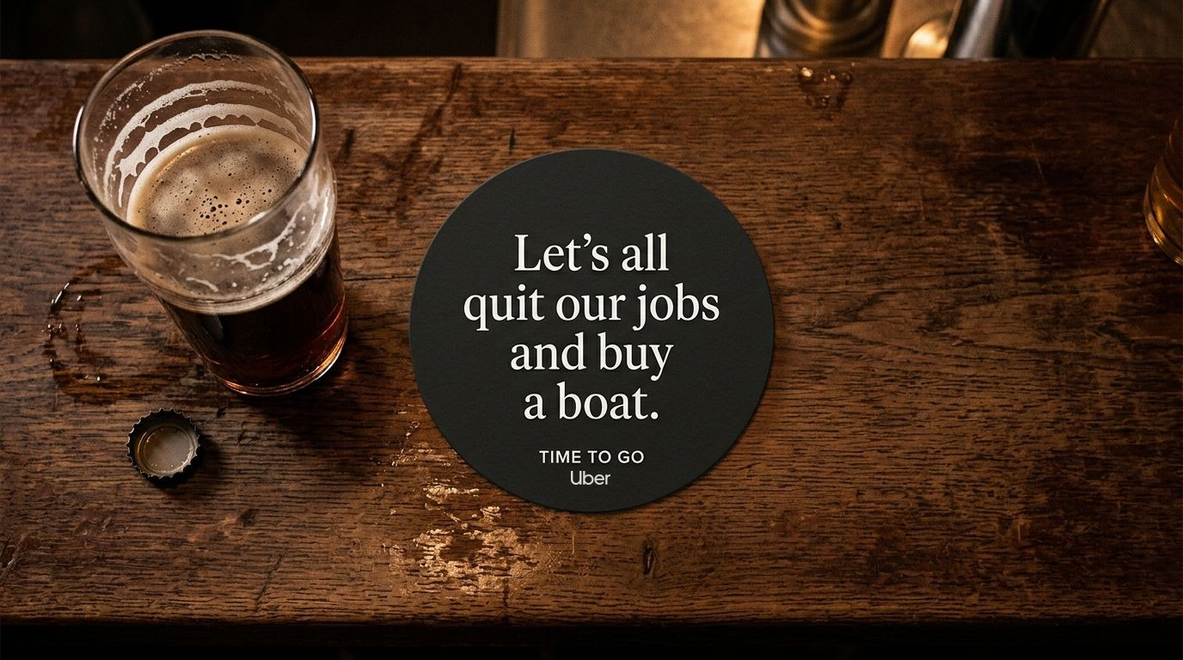
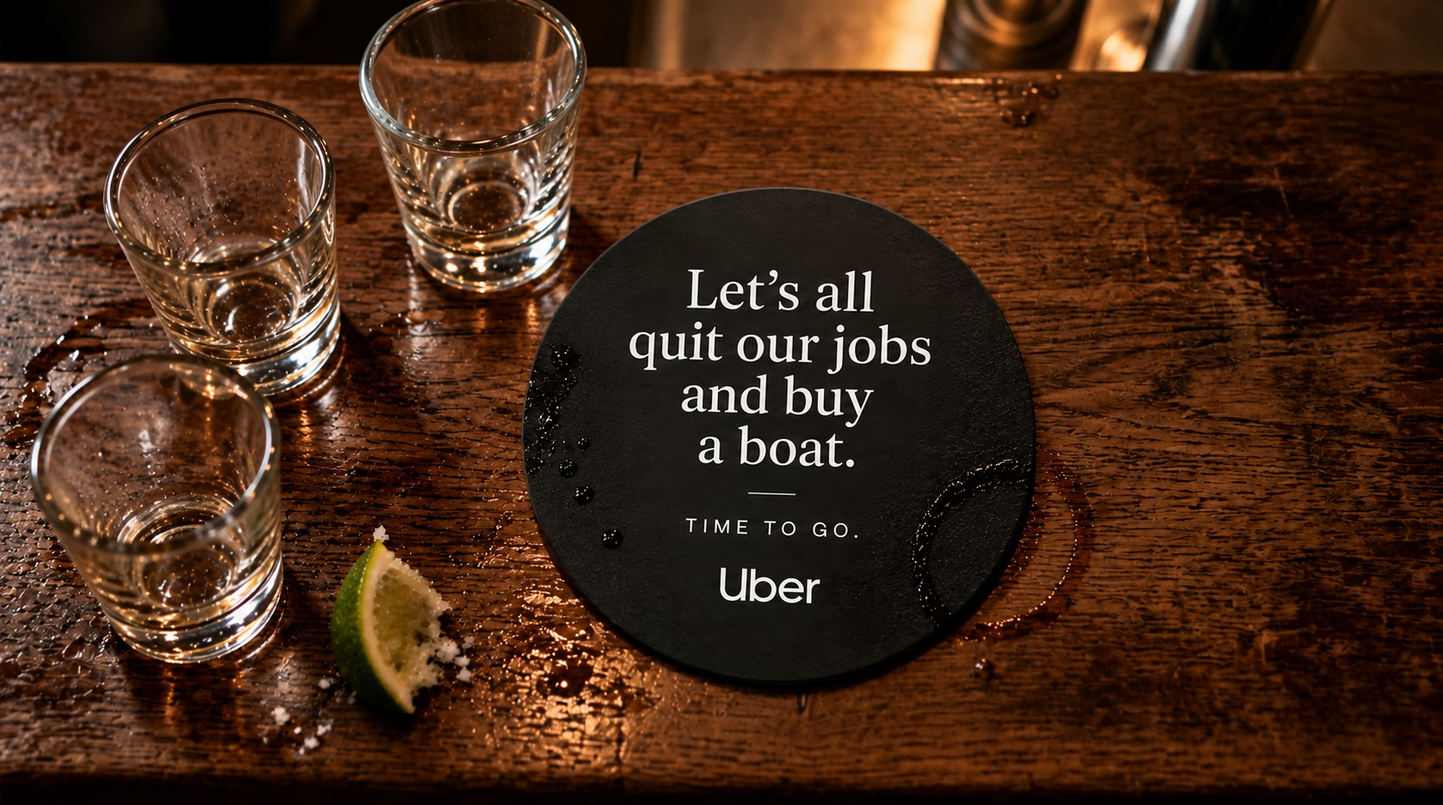
Uber: new intro, coasters (ex, boat, DJ, sommelier), Last Call Department payphone demo and Morning After built in (switch on with their assets), bus shelter and billboard variant slots
Claude-Session: https://claude.ai/code/session_01TW6HnmcSsFnBnCmy5NRgLu

diff --git a/uber.html b/uber.html
@@ -11,7 +11,7 @@
 <link rel="preconnect" href="https://fonts.googleapis.com">
 <link rel="preconnect" href="https://fonts.gstatic.com" crossorigin>
 <link rel="stylesheet" href="https://fonts.googleapis.com/css2?family=Marcellus&family=Hanken+Grotesk:wght@400;500;600&display=swap">
-<link rel="stylesheet" href="css/style.css?v=1111277e">
+<link rel="stylesheet" href="css/style.css?v=d52062b3">
 </head>
 <body>
 <a class="skip" href="#main">Skip to content</a>
@@ -31,18 +31,18 @@
 <a class="text-link back" href="index.html#work">← All work</a>
 <p class="cs-meta byline"><span class="full"><b>Spec</b><span class="dot">•</span>Integrated campaign<span class="dot">•</span>Concept · Creative Direction · Art Direction</span><span class="short"><b>Spec</b><span class="dot">•</span>Integrated<span class="dot">•</span>Concept, CD, AD</span></p>
 <h1 class="display">UBER</h1>
-<p class="lede">When it&#39;s time to go.</p><p class="body-copy">A spec campaign for Uber that meets people at the exact moment a night turns. It uses the things everyone says at the end of a night, printed right where the decision happens: on the coaster, on the tab, on the way out the door. Visuals AI-assisted.</p>
+<p class="lede">When it&#39;s time to go.</p><p class="body-copy">A spec campaign built around the things people say when a good night has gone on a little too long. From bar receipts and coasters to an AI-powered last-call hotline, Uber helps turn the moment into a way home. <span class="fine">Spec work. Visuals AI-assisted.</span></p>
 </div></header>
-<div class="wrap cs-hero"><img src="images/ub-receipt.jpg" alt="An itemized bar receipt from the Tipsy Oak: two Old Fashioneds, fries, four OK one more, I&#39;m not even tired, we should start a business, I love you guys. Total: time to go. Close your tab. Open your app."></div>
+<div class="wrap cs-hero"><img src="images/ub-receipt.jpg" alt="An itemized bar receipt from the Tipsy Oak: two Old Fashioneds, fries, four OK one more, I&#39;m not even tired, we should start a business, I love you guys. Total: time to go. Close your tab. Open your app. Signed off with the Uber logo."></div>
 <section class="cs-section"><div class="wrap">
 <div class="cs-section-head"><span class="num">01</span><h2>The insight</h2></div>
 <div class="insight"><p class="eyebrow">The insight</p><p class="ins-line">Everyone knows the night is over before they admit it. You can hear it.</p><p class="eyebrow">The idea</p><p class="ins-tag">The things you say before it&#39;s time to go.</p></div>
 </div></section><section class="cs-section"><div class="wrap">
 <div class="cs-section-head"><span class="num">02</span><h2>On-premise: the coasters</h2><p class="body-copy">A coaster series built from the lines everyone has heard at last call. Each one ends the same way.</p></div>
-<figure><img src="images/ub-coaster-ex.jpg" alt="Coaster: Should I text my ex? Just to say hi. Time to go." loading="lazy"><figcaption>&quot;Should I text my ex? Just to say hi.&quot;</figcaption></figure><figure><img src="images/ub-coaster-boat.jpg" alt="Coaster: Let&#39;s all quit our jobs and buy a boat. Time to go." loading="lazy"><figcaption>&quot;Let&#39;s all quit our jobs and buy a boat.&quot;</figcaption></figure><figure><img src="images/ub-coaster-tattoos.jpg" alt="Coaster: We should all get matching tattoos. Time to go." loading="lazy"><figcaption>&quot;We should all get matching tattoos.&quot;</figcaption></figure><figure><img src="images/ub-coaster-food.jpg" alt="Coaster: Let&#39;s order bar to the food. Time to go." loading="lazy"><figcaption>&quot;Let&#39;s order bar to the food.&quot;</figcaption></figure>
+<figure><img src="images/ub-coaster-ex.jpg" alt="Coaster: Should I text my ex? Just to say hi. Time to go. Uber." loading="lazy"><figcaption>The ex.</figcaption></figure><figure><img src="images/ub-coaster-boat.jpg" alt="Coaster: Let&#39;s all quit our jobs and buy a boat. Time to go. Uber." loading="lazy"><figcaption>The boat.</figcaption></figure><figure><img src="images/ub-coaster-dj.jpg" alt="Coaster: I could definitely be a DJ. Time to go. Uber." loading="lazy"><figcaption>The DJ.</figcaption></figure><figure><img src="images/ub-coaster-sommelier.jpg" alt="Coaster: I&#39;m basically a sommelier. Time to go. Uber." loading="lazy"><figcaption>The sommelier.</figcaption></figure>
 </div></section><section class="cs-section"><div class="wrap">
-<div class="cs-section-head"><span class="num">03</span><h2>The tab</h2><p class="body-copy">The bill is the natural cue to leave, so that&#39;s where the idea lands hardest: an itemized receipt of everything you said (above), then the check presenter and the ride already on its way.</p></div>
-<figure><img src="images/ub-hero.jpg" alt="End of the night at a bar: a check presenter and a phone showing a ride on its way, as the bartender wipes down and two friends put on their coats" loading="lazy"><figcaption>Close your tab. Open your app.</figcaption></figure><figure><img src="images/ub-presenter.jpg" alt="A check presenter with a card reading Tip your bartender. Then tap your app." loading="lazy"><figcaption>Tip your bartender. Then tap your app.</figcaption></figure>
+<div class="cs-section-head"><span class="num">03</span><h2>The tab</h2><p class="body-copy">The bill is the natural cue to leave: the check presenter, and the ride already on its way.</p></div>
+<div class="pair secondary"><figure><img src="images/ub-hero.jpg" alt="End of the night at a bar: a check presenter and a phone showing a ride on its way, as the bartender wipes down and two friends put on their coats" loading="lazy"><figcaption>Close your tab. Open your app.</figcaption></figure><figure><img src="images/ub-presenter.jpg" alt="A check presenter with a card reading Tip your bartender. Then tap your app." loading="lazy"><figcaption>Tip your bartender. Then tap your app.</figcaption></figure></div>
 </div></section><section class="cs-section"><div class="wrap">
 <div class="cs-section-head"><span class="num">04</span><h2>Out-of-home: on the way out</h2><p class="body-copy">The last word, placed between the bar door and the curb.</p></div>
 <div class="feed tall9"><figure><img src="images/ub-sign.jpg" alt="Sidewalk sign: Last call is a suggestion. Closing time isn&#39;t." loading="lazy"><figcaption>Sidewalk sign.</figcaption></figure><figure><img src="images/ub-shelter.jpg" alt="Bus shelter: Your tab closed at 1:52. Your ride&#39;s here at 1:55." loading="lazy"><figcaption>Bus shelter.</figcaption></figure><figure><img src="images/ub-billboard.jpg" alt="Digital billboard over a nightlife street: Close your tab. Open your app." loading="lazy"><figcaption>Digital billboard.</figcaption></figure></div>
@@ -63,5 +63,6 @@
 </footer>
 <script src="js/gallery.js?v=9e4ce41c"></script>
 <script src="js/livephone.js?v=cb21c16c" defer></script>
+<script src="js/lastcall.js?v=6366ece5" defer></script>
 </body>
 </html>

diff --git a/js/lastcall.js b/js/lastcall.js
@@ -1,0 +1,58 @@
+/* The Last Call Department: pick up the payphone, play a sample call.
+   One sample at a time, never autoplays, keyboard accessible.
+   A live AI operator can be added later through data-live-endpoint (a
+   server that issues short-lived session tokens); nothing live is shown
+   until that endpoint exists and is wired up. */
+(function () {
+  document.querySelectorAll('.lastcall').forEach(function (box) {
+    var pickup = box.querySelector('.lc-pickup');
+    var group = box.querySelector('.lc-samples');
+    var status = box.querySelector('.lc-status');
+    var buttons = Array.prototype.slice.call(box.querySelectorAll('.lc-sample'));
+    var audio = new Audio();
+    audio.preload = 'none';
+    var current = null;
+
+    function setState(btn, playing) {
+      btn.setAttribute('aria-pressed', playing ? 'true' : 'false');
+      btn.classList.toggle('playing', playing);
+    }
+    function stop() {
+      audio.pause();
+      if (current) setState(current, false);
+      current = null;
+    }
+    function play(btn) {
+      if (current === btn && !audio.paused) { audio.pause(); setState(btn, false); status.textContent = 'Paused.'; return; }
+      if (current === btn && audio.paused && audio.currentTime > 0) { audio.play(); setState(btn, true); status.textContent = 'Playing: ' + btn.textContent + '.'; return; }
+      stop();
+      current = btn;
+      audio.src = btn.getAttribute('data-src');
+      setState(btn, true);
+      status.textContent = 'Connecting…';
+      audio.play().then(function () { status.textContent = 'Playing: ' + btn.textContent + '.'; })
+        .catch(function () { setState(btn, false); status.textContent = 'This sample could not be played.'; });
+    }
+    audio.addEventListener('ended', function () { if (current) setState(current, false); current = null; status.textContent = 'Call ended. Pick another case.'; });
+    audio.addEventListener('error', function () {
+      if (!current) return;
+      setState(current, false); current.disabled = true; current = null;
+      status.textContent = 'This sample isn’t available right now.';
+    });
+
+    pickup.addEventListener('click', function () {
+      var open = pickup.getAttribute('aria-expanded') === 'true';
+      if (open) {
+        stop(); group.hidden = true; pickup.setAttribute('aria-expanded', 'false');
+        pickup.textContent = 'Pick up the phone'; box.classList.remove('off-hook'); status.textContent = 'Hung up.';
+      } else {
+        group.hidden = false; pickup.setAttribute('aria-expanded', 'true');
+        pickup.textContent = 'Hang up'; box.classList.add('off-hook');
+        status.textContent = 'Last Call Department. Choose a case to hear the operator.';
+        if (buttons[0]) buttons[0].focus();
+      }
+    });
+    buttons.forEach(function (b) { b.addEventListener('click', function () { play(b); }); });
+    box.addEventListener('keydown', function (e) { if (e.key === 'Escape' && current) { stop(); status.textContent = 'Stopped.'; } });
+  });
+})();

diff --git a/css/style.css b/css/style.css
@@ -314,3 +314,25 @@ figure .zoom:focus-visible{outline:2px solid var(--ink);outline-offset:4px}
 .byline .dot{margin:0 .7em;color:#aaa}
 .byline .short{display:none}
 @media (max-width:760px){.byline .full{display:none}.byline .short{display:inline}.cs-meta.byline{letter-spacing:.08em;font-size:11px}.byline .dot{margin:0 .45em}}
+
+/* Uber: Last Call Department payphone demo */
+.fine{display:block;margin-top:14px;font-size:13px;letter-spacing:.06em;color:#6b6b6b}
+.proposed{display:inline-block;margin-right:10px;padding:2px 8px;border:1px solid currentColor;font-size:11px;letter-spacing:.14em;text-transform:uppercase;vertical-align:2px}
+.pair.secondary{max-width:min(var(--media-w),760px)}
+.lastcall{display:grid;grid-template-columns:minmax(0,1fr) minmax(0,1fr);gap:32px;align-items:center;max-width:var(--media-w);margin:40px auto 0;padding:28px;background:#111;color:#e9e6df}
+.lc-device img{width:100%;height:auto;display:block;max-height:420px;object-fit:cover}
+.lc-label{font-size:11px;letter-spacing:.16em;text-transform:uppercase;color:#9a968c;margin-bottom:16px}
+.lc-pickup{display:block;width:100%;min-height:56px;border:1px solid #e9e6df;background:#e9e6df;color:#111;font:600 14px/1 inherit;letter-spacing:.16em;text-transform:uppercase;cursor:pointer}
+.lastcall.off-hook .lc-pickup{background:transparent;color:#e9e6df}
+.lc-samples{display:grid;gap:10px;margin-top:16px}
+.lc-sample{display:flex;align-items:center;gap:12px;min-height:48px;padding:0 16px;border:1px solid #4a4741;background:transparent;color:#e9e6df;font:500 15px/1.2 inherit;text-align:left;cursor:pointer}
+.lc-sample:hover,.lc-sample:focus-visible,.lc-pickup:focus-visible{outline:2px solid #3fbf74;outline-offset:2px}
+.lc-sample:disabled{opacity:.4;cursor:not-allowed}
+.lc-ic{width:0;height:0;border-left:10px solid currentColor;border-top:6px solid transparent;border-bottom:6px solid transparent}
+.lc-sample.playing{border-color:#3fbf74;color:#fff}
+.lc-sample.playing .lc-ic{width:10px;height:12px;border:0;border-left:3px solid currentColor;border-right:3px solid currentColor}
+.lc-status{min-height:1.4em;margin-top:14px;font-size:14px;color:#b9b5ab}
+.sample-audio{max-width:520px;margin:28px auto 0}
+.sample-audio audio{width:100%}
+@media (max-width:760px){.lastcall{grid-template-columns:1fr;padding:20px}}
+.lc-samples[hidden]{display:none}

diff --git a/brown-co.html b/brown-co.html
@@ -11,7 +11,7 @@
 <link rel="preconnect" href="https://fonts.googleapis.com">
 <link rel="preconnect" href="https://fonts.gstatic.com" crossorigin>
 <link rel="stylesheet" href="https://fonts.googleapis.com/css2?family=Marcellus&family=Hanken+Grotesk:wght@400;500;600&display=swap">
-<link rel="stylesheet" href="css/style.css?v=1111277e">
+<link rel="stylesheet" href="css/style.css?v=d52062b3">
 </head>
 <body>
 <a class="skip" href="#main">Skip to content</a>
@@ -70,5 +70,6 @@
 </footer>
 <script src="js/gallery.js?v=9e4ce41c"></script>
 <script src="js/livephone.js?v=cb21c16c" defer></script>
+<script src="js/lastcall.js?v=6366ece5" defer></script>
 </body>
 </html>

diff --git a/desert-diamonds.html b/desert-diamonds.html
@@ -11,7 +11,7 @@
 <link rel="preconnect" href="https://fonts.googleapis.com">
 <link rel="preconnect" href="https://fonts.gstatic.com" crossorigin>
 <link rel="stylesheet" href="https://fonts.googleapis.com/css2?family=Marcellus&family=Hanken+Grotesk:wght@400;500;600&display=swap">
-<link rel="stylesheet" href="css/style.css?v=1111277e">
+<link rel="stylesheet" href="css/style.css?v=d52062b3">
 </head>
 <body>
 <a class="skip" href="#main">Skip to content</a>
@@ -75,5 +75,6 @@
 </footer>
 <script src="js/gallery.js?v=9e4ce41c"></script>
 <script src="js/livephone.js?v=cb21c16c" defer></script>
+<script src="js/lastcall.js?v=6366ece5" defer></script>
 </body>
 </html>

diff --git a/fage.html b/fage.html
@@ -11,7 +11,7 @@
 <link rel="preconnect" href="https://fonts.googleapis.com">
 <link rel="preconnect" href="https://fonts.gstatic.com" crossorigin>
 <link rel="stylesheet" href="https://fonts.googleapis.com/css2?family=Marcellus&family=Hanken+Grotesk:wght@400;500;600&display=swap">
-<link rel="stylesheet" href="css/style.css?v=1111277e">
+<link rel="stylesheet" href="css/style.css?v=d52062b3">
 </head>
 <body>
 <a class="skip" href="#main">Skip to content</a>
@@ -72,5 +72,6 @@
 </footer>
 <script src="js/gallery.js?v=9e4ce41c"></script>
 <script src="js/livephone.js?v=cb21c16c" defer></script>
+<script src="js/lastcall.js?v=6366ece5" defer></script>
 </body>
 </html>

diff --git a/index.html b/index.html
@@ -11,7 +11,7 @@
 <link rel="preconnect" href="https://fonts.googleapis.com">
 <link rel="preconnect" href="https://fonts.gstatic.com" crossorigin>
 <link rel="stylesheet" href="https://fonts.googleapis.com/css2?family=Marcellus&family=Hanken+Grotesk:wght@400;500;600&display=swap">
-<link rel="stylesheet" href="css/style.css?v=1111277e">
+<link rel="stylesheet" href="css/style.css?v=d52062b3">
 </head>
 <body>
 <a class="skip" href="#main">Skip to content</a>
@@ -70,5 +70,6 @@
 </footer>
 <script src="js/gallery.js?v=9e4ce41c"></script>
 <script src="js/livephone.js?v=cb21c16c" defer></script>
+<script src="js/lastcall.js?v=6366ece5" defer></script>
 </body>
 </html>

diff --git a/lab.html b/lab.html
@@ -11,7 +11,7 @@
 <link rel="preconnect" href="https://fonts.googleapis.com">
 <link rel="preconnect" href="https://fonts.gstatic.com" crossorigin>
 <link rel="stylesheet" href="https://fonts.googleapis.com/css2?family=Marcellus&family=Hanken+Grotesk:wght@400;500;600&display=swap">
-<link rel="stylesheet" href="css/style.css?v=1111277e">
+<link rel="stylesheet" href="css/style.css?v=d52062b3">
 </head>
 <body>
 <a class="skip" href="#main">Skip to content</a>
@@ -65,5 +65,6 @@
 </footer>
 <script src="js/gallery.js?v=9e4ce41c"></script>
 <script src="js/livephone.js?v=cb21c16c" defer></script>
+<script src="js/lastcall.js?v=6366ece5" defer></script>
 </body>
 </html>

diff --git a/synth-city.html b/synth-city.html
@@ -11,7 +11,7 @@
 <link rel="preconnect" href="https://fonts.googleapis.com">
 <link rel="preconnect" href="https://fonts.gstatic.com" crossorigin>
 <link rel="stylesheet" href="https://fonts.googleapis.com/css2?family=Marcellus&family=Hanken+Grotesk:wght@400;500;600&display=swap">
-<link rel="stylesheet" href="css/style.css?v=1111277e">
+<link rel="stylesheet" href="css/style.css?v=d52062b3">
 </head>
 <body>
 <a class="skip" href="#main">Skip to content</a>
@@ -75,5 +75,6 @@
 </footer>
 <script src="js/gallery.js?v=9e4ce41c"></script>
 <script src="js/livephone.js?v=cb21c16c" defer></script>
+<script src="js/lastcall.js?v=6366ece5" defer></script>
 </body>
 </html>

diff --git a/turbochef.html b/turbochef.html
@@ -11,7 +11,7 @@
 <link rel="preconnect" href="https://fonts.googleapis.com">
 <link rel="preconnect" href="https://fonts.gstatic.com" crossorigin>
 <link rel="stylesheet" href="https://fonts.googleapis.com/css2?family=Marcellus&family=Hanken+Grotesk:wght@400;500;600&display=swap">
-<link rel="stylesheet" href="css/style.css?v=1111277e">
+<link rel="stylesheet" href="css/style.css?v=d52062b3">
 </head>
 <body>
 <a class="skip" href="#main">Skip to content</a>
@@ -63,5 +63,6 @@
 </footer>
 <script src="js/gallery.js?v=9e4ce41c"></script>
 <script src="js/livephone.js?v=cb21c16c" defer></script>
+<script src="js/lastcall.js?v=6366ece5" defer></script>
 </body>
 </html>

diff --git a/tools/build.py b/tools/build.py
@@ -57,6 +57,7 @@ def page(fname, title, desc, body, current=''):
 </footer>
 <script src="js/gallery.js?v={_v('js/gallery.js')}"></script>
 <script src="js/livephone.js?v={_v('js/livephone.js')}" defer></script>
+<script src="js/lastcall.js?v={_v('js/lastcall.js')}" defer></script>
 </body>
 </html>
 '''
@@ -104,6 +105,51 @@ SHORT_TAGS = {
     'uber.html': ['Spec', 'Integrated', 'Concept, CD, AD'],
     'turbochef.html': ['Spec', 'Integrated', 'Concept, CD, AD'],
 }
+
+# ---------- Uber helpers ----------
+# Each optional asset switches its piece on as soon as the file is added;
+# until then nothing empty or non-working is shown on the live page.
+_ROOT = _o.path.join(_o.path.dirname(__file__), '..')
+def has_file(rel): return _o.path.exists(_o.path.join(_ROOT, rel))
+def has_img(name): return has_file(f'images/{name}.jpg')
+
+UB_COASTERS = [
+    ('ub-coaster-ex', 'Coaster: Should I text my ex? Just to say hi. Time to go. Uber.', 'The ex.'),
+    ('ub-coaster-boat', 'Coaster: Let&#39;s all quit our jobs and buy a boat. Time to go. Uber.', 'The boat.'),
+    ('ub-coaster-dj', 'Coaster: I could definitely be a DJ. Time to go. Uber.', 'The DJ.') if has_img('ub-coaster-dj') else ('ub-coaster-tattoos', 'Coaster: We should all get matching tattoos. Time to go. Uber.', 'The tattoos.'),
+    ('ub-coaster-sommelier', 'Coaster: I&#39;m basically a sommelier. Time to go. Uber.', 'The sommelier.') if has_img('ub-coaster-sommelier') else ('ub-coaster-food', 'Coaster: Let&#39;s order bar to the food. Time to go. Uber.', 'The order.'),
+]
+
+# Billboard creative: add variants (ub-billboard-2.jpg, ub-billboard-3.jpg) to show more than one.
+UB_BILLBOARDS = [
+    ('ub-billboard', 'Digital billboard over a nightlife street: Close your tab. Open your app.', 'Digital billboard.'),
+    ('ub-billboard-2', 'Digital billboard, alternate late-night creative', 'Digital billboard, later that night.'),
+    ('ub-billboard-3', 'Digital billboard, alternate late-night creative', 'Digital billboard, closing time.'),
+]
+
+UB_SAMPLES = [
+    ('audio/ub-lastcall-business-partners.mp3', 'The Business Partners'),
+    ('audio/ub-lastcall-text-message.mp3', 'The Text Message'),
+    ('audio/ub-lastcall-great-idea.mp3', 'The Great Idea'),
+]
+# Future real-time AI operator: set to your server's session endpoint, which
+# issues short-lived tokens. Empty = no live control is shown. Never put API keys here.
+UB_LIVE_ENDPOINT = ''
+
+def lastcall_panel():
+    samples = [(src, label) for src, label in UB_SAMPLES if has_file(src)]
+    if not samples or not has_img('ub-payphone-closeup'):
+        return ''
+    btns = ''.join(f'<button type="button" class="lc-sample" data-src="{src}" aria-pressed="false"><span class="lc-ic" aria-hidden="true"></span>{label}</button>' for src, label in samples)
+    return (f'<div class="lastcall" data-live-endpoint="{UB_LIVE_ENDPOINT}">'
+            '<div class="lc-device"><img src="images/ub-payphone-closeup.jpg" alt="Close-up of the Last Call Department payphone: keypad and receiver" loading="lazy"></div>'
+            '<div class="lc-panel"><p class="lc-label">Concept demo · AI voice · sample recordings</p>'
+            '<button type="button" class="lc-pickup" aria-expanded="false">Pick up the phone</button>'
+            f'<div class="lc-samples" role="group" aria-label="Sample calls" hidden>{btns}</div>'
+            '<p class="lc-status" aria-live="polite"></p></div></div>')
+
+def sample_audio(src, label):
+    return f'<div class="sample-audio"><p class="lc-label">{label}</p><audio controls preload="none" src="{src}"></audio></div>'
 
 def case(fname, name, tags, lede, intro, hero, hero_alt, sections, nxt, nxt_name, desc):
     split = ''
@@ -402,24 +448,31 @@ case('desert-diamonds.html', 'Desert Diamonds', ['Premier Gem','Campaign · Film
 
 case('uber.html', 'Uber', ['Spec','Integrated campaign','Concept · Creative Direction · Art Direction'],
      'When it&#39;s time to go.',
-     'A spec campaign for Uber that meets people at the exact moment a night turns. It uses the things everyone says at the end of a night, printed right where the decision happens: on the coaster, on the tab, on the way out the door. Visuals AI-assisted.',
-     'ub-receipt', 'An itemized bar receipt from the Tipsy Oak: two Old Fashioneds, fries, four OK one more, I&#39;m not even tired, we should start a business, I love you guys. Total: time to go. Close your tab. Open your app.',
-     [section('01','The insight','', insight_box('Everyone knows the night is over before they admit it. You can hear it.', 'The things you say before it&#39;s time to go.')),
+     'A spec campaign built around the things people say when a good night has gone on a little too long. From bar receipts and coasters to an AI-powered last-call hotline, Uber helps turn the moment into a way home. <span class="fine">Spec work. Visuals AI-assisted.</span>',
+     'ub-receipt', 'An itemized bar receipt from the Tipsy Oak: two Old Fashioneds, fries, four OK one more, I&#39;m not even tired, we should start a business, I love you guys. Total: time to go. Close your tab. Open your app. Signed off with the Uber logo.',
+     [s_ for s_ in [
+      section('01','The insight','', insight_box('Everyone knows the night is over before they admit it. You can hear it.', 'The things you say before it&#39;s time to go.')),
 
       section('02','On-premise: the coasters','A coaster series built from the lines everyone has heard at last call. Each one ends the same way.',
-              img('ub-coaster-ex','Coaster: Should I text my ex? Just to say hi. Time to go.','&quot;Should I text my ex? Just to say hi.&quot;')
-              + img('ub-coaster-boat','Coaster: Let&#39;s all quit our jobs and buy a boat. Time to go.','&quot;Let&#39;s all quit our jobs and buy a boat.&quot;')
-              + img('ub-coaster-tattoos','Coaster: We should all get matching tattoos. Time to go.','&quot;We should all get matching tattoos.&quot;')
-              + img('ub-coaster-food','Coaster: Let&#39;s order bar to the food. Time to go.','&quot;Let&#39;s order bar to the food.&quot;')),
+              ''.join(img(f, alt, cap) for f, alt, cap in UB_COASTERS)),
 
-      section('03','The tab','The bill is the natural cue to leave, so that&#39;s where the idea lands hardest: an itemized receipt of everything you said (above), then the check presenter and the ride already on its way.',
-              img('ub-hero','End of the night at a bar: a check presenter and a phone showing a ride on its way, as the bartender wipes down and two friends put on their coats','Close your tab. Open your app.')
-              + img('ub-presenter','A check presenter with a card reading Tip your bartender. Then tap your app.','Tip your bartender. Then tap your app.')),
+      (section('03','Experiential: The Last Call Department','An old payphone appears in neighborhood bars, offering a second opinion on those brilliant ideas that only seem brilliant after midnight. Pick up the receiver and a deadpan AI operator answers. Every conversation is different. Every case has one thing in common: knowing when it&#39;s time to go.',
+              img('ub-payphone','A vintage payphone mounted in a neighborhood bar, signed The Last Call Department')
+              + lastcall_panel()) if has_img('ub-payphone') else ''),
 
-      section('04','Out-of-home: on the way out','The last word, placed between the bar door and the curb.',
+      section('04' if has_img('ub-payphone') else '03','The tab','The bill is the natural cue to leave: the check presenter, and the ride already on its way.',
+              '<div class="pair secondary">' + img('ub-hero','End of the night at a bar: a check presenter and a phone showing a ride on its way, as the bartender wipes down and two friends put on their coats','Close your tab. Open your app.')
+              + img('ub-presenter','A check presenter with a card reading Tip your bartender. Then tap your app.','Tip your bartender. Then tap your app.') + '</div>'),
+
+      section('05' if has_img('ub-payphone') else '04','Out-of-home: on the way out','The last word, placed between the bar door and the curb.',
               '<div class="feed tall9">' + img('ub-sign','Sidewalk sign: Last call is a suggestion. Closing time isn&#39;t.','Sidewalk sign.')
-              + img('ub-shelter','Bus shelter: Your tab closed at 1:52. Your ride&#39;s here at 1:55.','Bus shelter.')
-              + img('ub-billboard','Digital billboard over a nightlife street: Close your tab. Open your app.','Digital billboard.') + '</div>')],
+              + (img('ub-shelter-goodbye','Bus shelter ad: You&#39;ve been saying goodbye for 45 minutes.','Bus shelter.') if has_img('ub-shelter-goodbye') else img('ub-shelter','Bus shelter: Your tab closed at 1:52. Your ride&#39;s here at 1:55.','Bus shelter.'))
+              + ''.join(img(f, alt, cap) for f, alt, cap in UB_BILLBOARDS if has_img(f)) + '</div>'),
+
+      (section('06','The morning after','<span class="proposed">Proposed extension</span> Some brilliant ideas sound different in daylight. Callers who opt in could hear their late-night pitch again the next morning. The Last Call Department keeps the receipts.',
+              (img('ub-morning','The Last Call Department morning-after follow-up') if has_img('ub-morning') else '')
+              + (sample_audio('audio/ub-morning-after.mp3','Sample: a morning-after follow-up') if has_file('audio/ub-morning-after.mp3') else '')) if has_img('ub-payphone') else ''),
+      ] if s_],
      'turbochef.html', 'Turbochef', 'Uber: When it&#39;s time to go. A spec campaign built on the things you say before it&#39;s time to go.')
 
 tc_insight = insight_box('TurboChef builds the ovens restaurants run on. Now there&#39;s one for the home.', 'Compliments to the chef.')

diff --git a/README.md b/README.md
@@ -52,3 +52,21 @@ Videos stay on S3 (`superborn-dev`); keep those files public.
 
 ## Editing
 Pages are generated by `tools/build.py`. Edit the copy there and run `python3 tools/build.py`, or edit the HTML directly.
+
+## Uber page: assets that switch sections on
+Drop these in with exactly these names, run `python3 tools/build.py`, and the matching piece appears.
+Nothing empty or non-working is shown until the file exists.
+| File | Turns on |
+|---|---|
+| `images/ub-payphone.jpg` | The Last Call Department section (vertical installation photo) |
+| `images/ub-payphone-closeup.jpg` | The interactive payphone panel (needs at least one sample below too) |
+| `audio/ub-lastcall-business-partners.mp3` | Sample: The Business Partners |
+| `audio/ub-lastcall-text-message.mp3` | Sample: The Text Message |
+| `audio/ub-lastcall-great-idea.mp3` | Sample: The Great Idea |
+| `images/ub-shelter-goodbye.jpg` | Replaces the bus shelter with "You've been saying goodbye for 45 minutes." |
+| `images/ub-billboard-2.jpg`, `images/ub-billboard-3.jpg` | Extra billboard creative variants |
+| `images/ub-morning.jpg`, `audio/ub-morning-after.mp3` | The Morning After image and sample |
+
+Live AI operator (future): set `UB_LIVE_ENDPOINT` in `tools/build.py` to a server endpoint that issues
+short-lived session tokens. Never put an API key in this repo; GitHub Pages is public. The live mode
+itself (microphone permission on tap, mute, end call, error handling) is not built yet.
